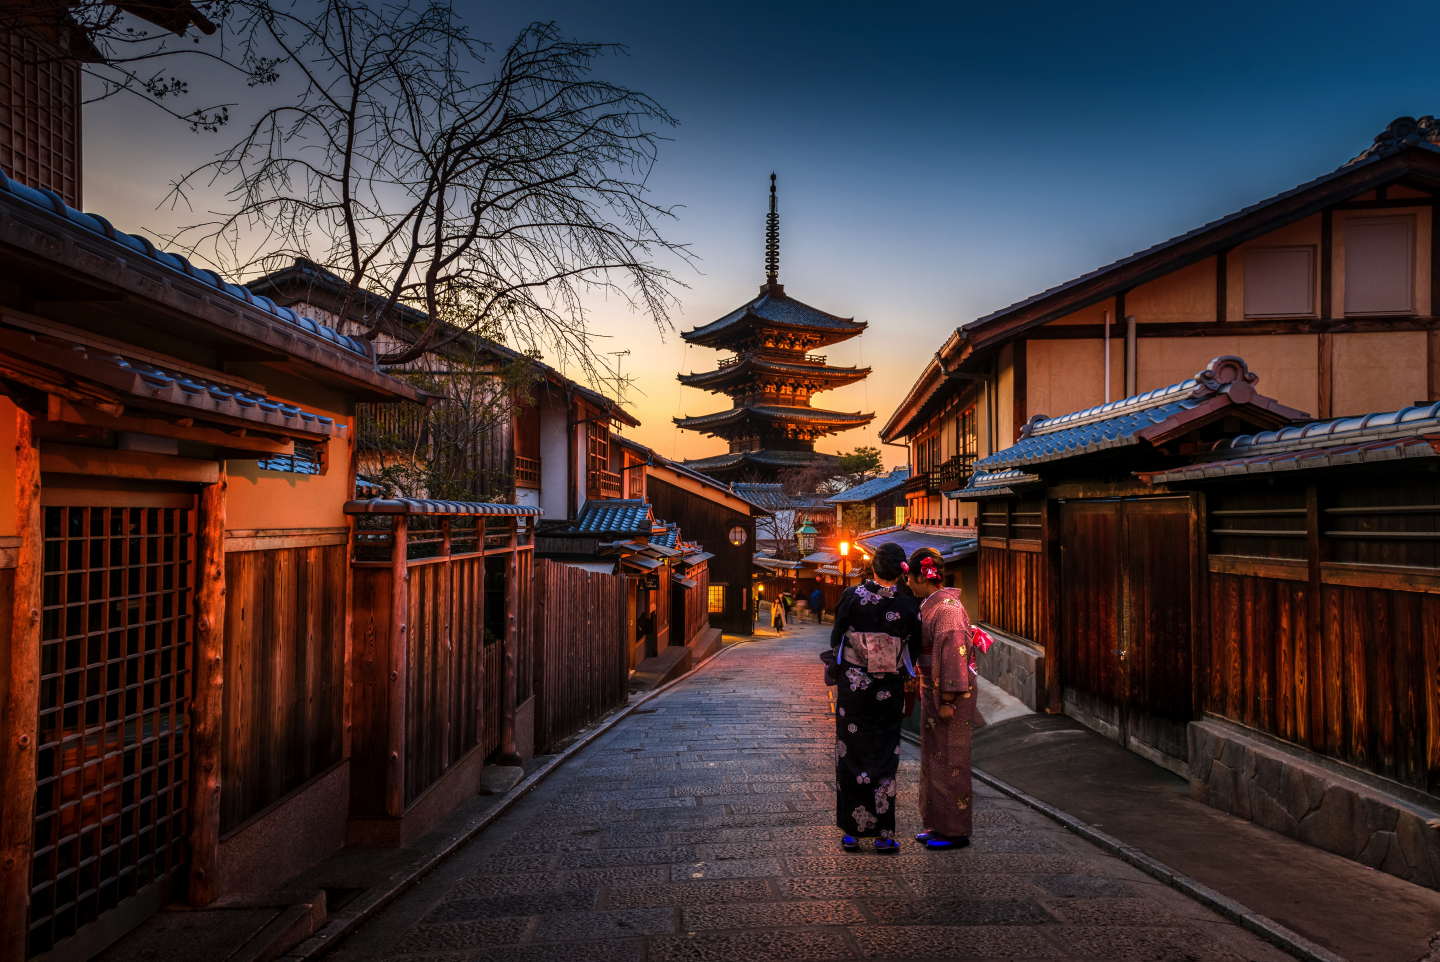
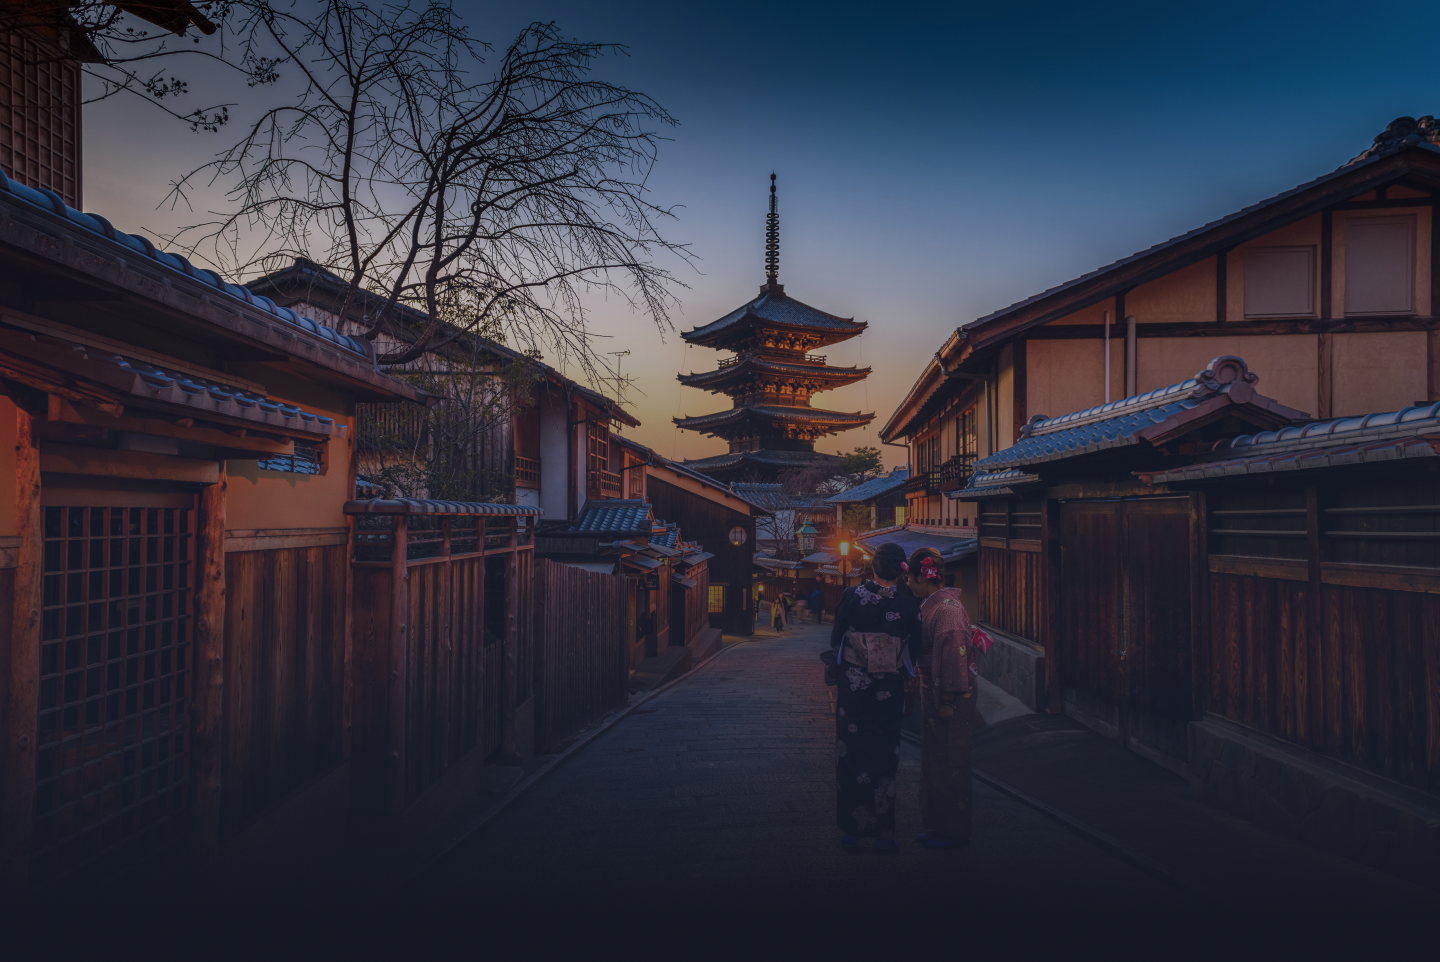
feat: сверстать intro

diff --git a/styles/index.css b/styles/index.css
@@ -79,14 +79,81 @@ html {
   background-image: url(../images/bg-main.png);
   background-size: cover;
   background-repeat: no-repeat;
+  color: #fff;
+  padding: 263px 0 0;
 }
 
-.intro::after {
+.intro__title {
+  margin: 0 0 22px 0;
+  font-weight: 500;
+  font-size: 50px;
+  line-height: 60px;
+  max-width: 619px;
+}
+
+.intro__text {
+  margin: 0 0 59px 0;
+  max-width: 546px;
+  font-size: 16px;
+  line-height: 24px
+}
+
+.intro__form {
+  max-width: 889px;
+  display: flex;
+  justify-content: space-between;
+}
+
+.intro__item {
+  position: relative;
+  width: 297px;
+  height: 49px;
+}
+
+.intro__item::after {
   position: absolute;
   content: "";
   top: 0;
   left: 0;
-  right: 0;
-  bottom: 0;
-  background: linear-gradient(180deg, rgba(53, 66, 103, 0.0001) 0%, #151824 95.04%);
+  width: 20px;
+  height: 20px;
+  border-radius: 50%;
+  border: 2px solid #fff;
+}
+
+.intro__input {
+  width: 100%;
+  height: 100%;
+  padding: 0 5px 22px 53px;
+  border: none;
+  background-color: inherit;
+  border-bottom: 3px solid #fff;
+  font-weight: 500;
+  font-size: 18px;
+  line-height: 24px;
+  color: #fff;
+}
+
+.intro__input::placeholder {
+  font-weight: 500;
+  font-size: 18px;
+  line-height: 24px;
+  color: #fff;
+}
+
+.intro__btn {
+  width: 171px;
+  height: 58px;
+  border: none;
+  background-color: #1B7DFF;
+  color: #fff;
+  font-weight: 500;
+  font-size: 24px;
+  line-height: 29px;
+  text-transform: uppercase;
+  text-align: center;
+}
+
+.intro__btn:hover {
+  cursor: pointer;
 }

diff --git a/index.html b/index.html
@@ -34,6 +34,19 @@
     </header>
     <main class="main">
       <section class="intro">
+        <div class="wrapper intro__wrapper">
+          <h1 class="intro__title">Discover Amazing places in Japan</h1>
+        <p class="intro__text">Jump off balcony, onto stranger's head. Chase ball of string hide when guests come over. Being gorgeous with belly side up i could pee on this if i had the energy but under the bed, for attack the child, open the door, </p>
+        <form class="intro__form">
+          <div class="intro__item">
+            <input class="intro__input" placeholder="What would you like to do?" />
+          </div>
+          <div class="intro__item">
+            <input class="intro__input" placeholder="Where would you like to go?" />
+          </div>
+          <button class="intro__btn" type="button">search</button>
+        </form>
+        </div>
       </section>
     </main>
   </div>
